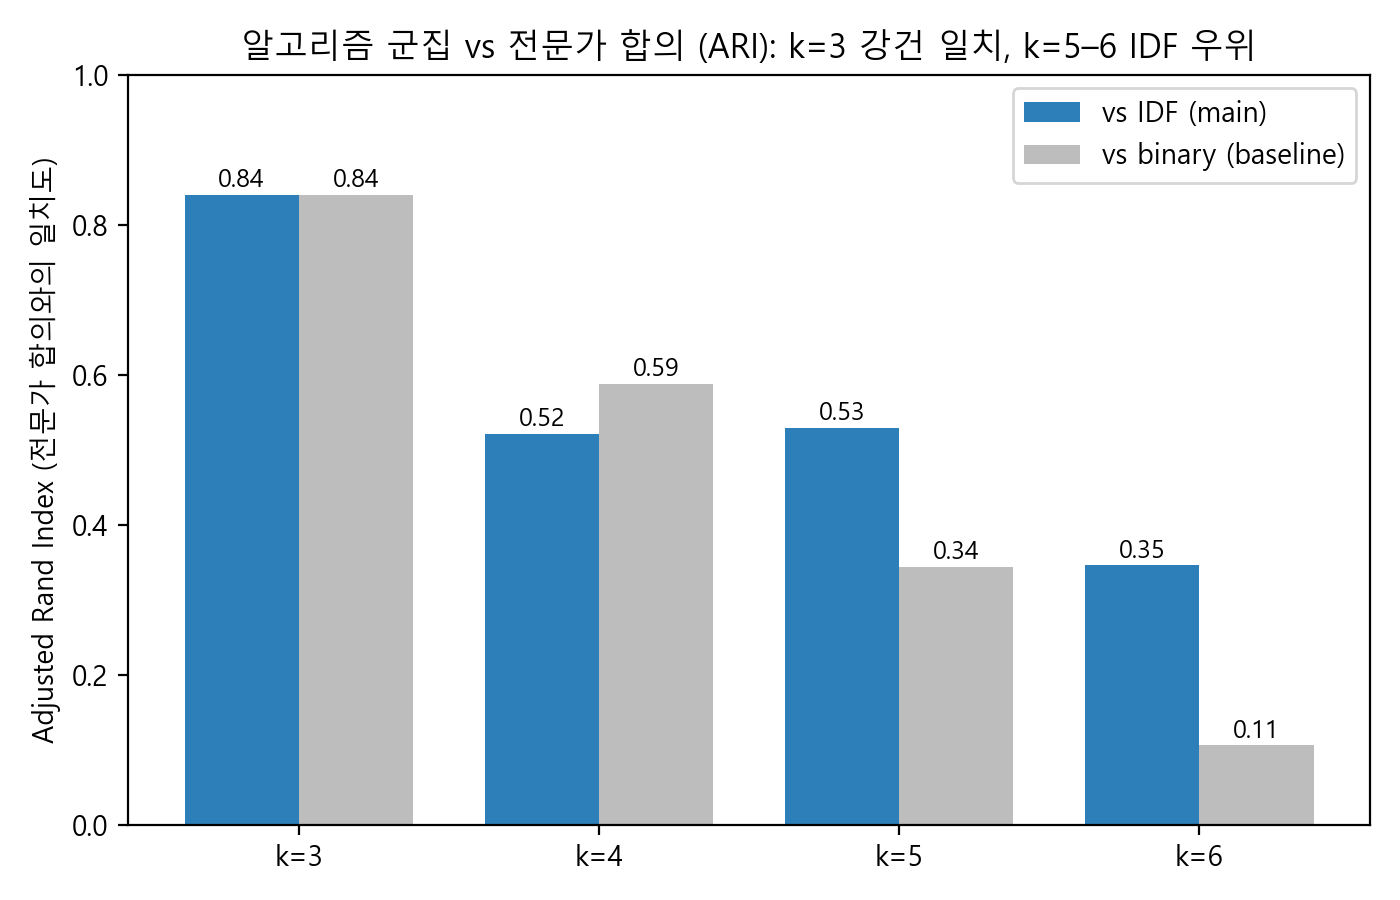
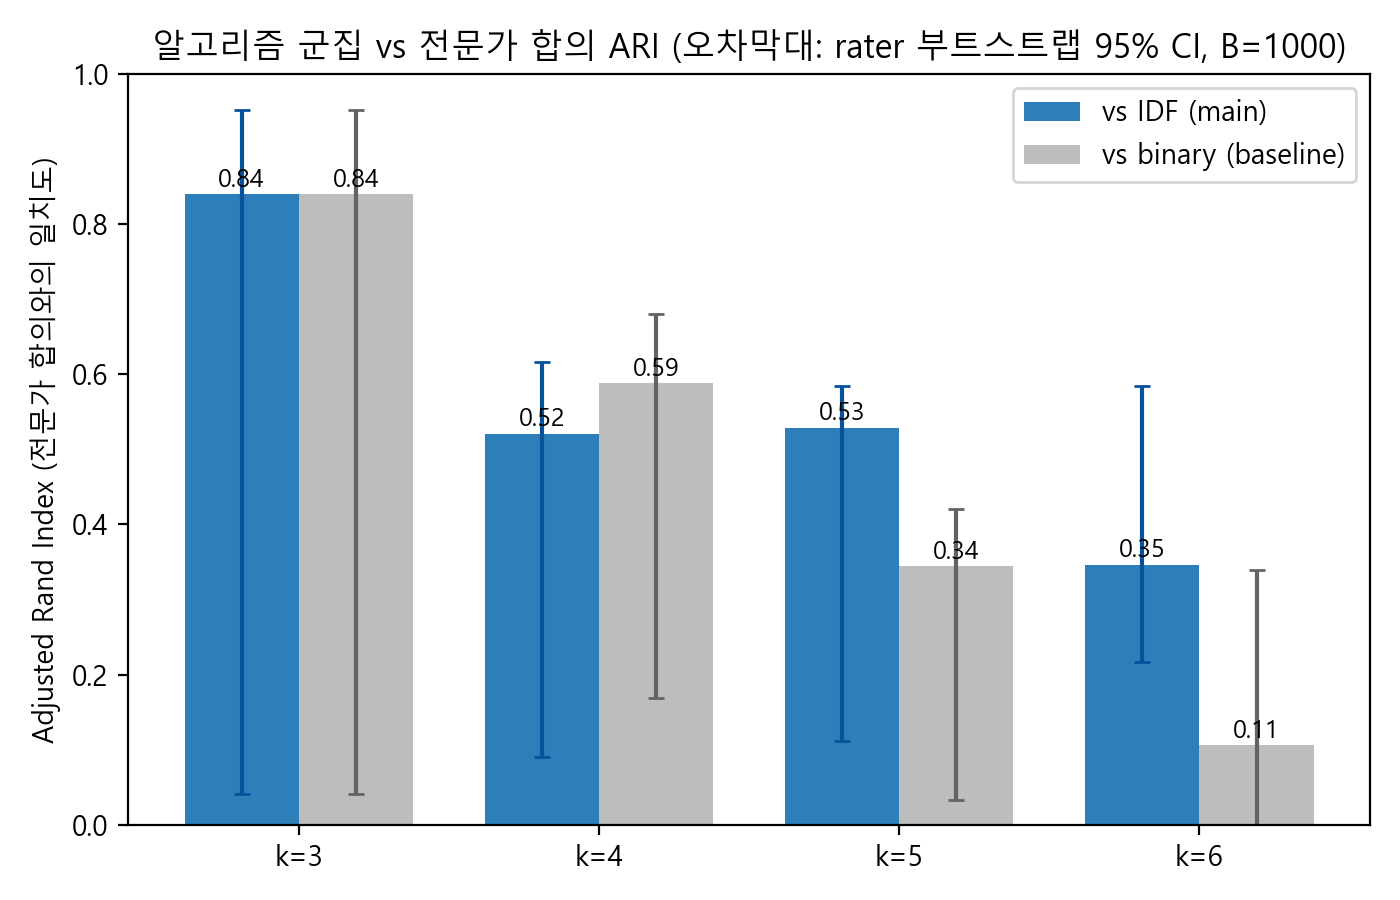
Add bootstrap stability (feature + rater) with CIs; honest report reconciliation

diff --git a/src/build_card_sorting_analysis.py b/src/build_card_sorting_analysis.py
@@ -23,6 +23,12 @@ from __future__ import annotations
 
 import itertools
 import pathlib
+import sys
+
+try:                                  # keep Korean/em-dash prints from crashing on cp949 pipes
+    sys.stdout.reconfigure(encoding="utf-8")
+except (AttributeError, ValueError):
+    pass
 
 import matplotlib
 import matplotlib.pyplot as plt
@@ -47,6 +53,8 @@ RATER_FIRST_COL, RATER_LAST_COL = 3, 16   # 평가 columns C..P (14 raters)
 DEPT_FIRST_ROW, DEPT_LAST_ROW = 6, 30     # 25 departments
 NAME_COL = 2
 K_PRIMARY = 4
+BOOTSTRAP_B = 1000                 # rater resamples for consensus stability + ARI CI
+BOOTSTRAP_SEED = 42
 
 
 def setup_style() -> None:
@@ -152,6 +160,73 @@ def disagreement_pairs(co: np.ndarray, names) -> pd.DataFrame:
     return pairs
 
 
+def bootstrap_expert(responses: pd.DataFrame, names, ref_k4: np.ndarray,
+                     ks=(3, 4, 5, 6)) -> tuple[pd.DataFrame, pd.DataFrame]:
+    """Resample the 14 raters with replacement (B times) to put bootstrap CIs on
+    (1) per-consensus-cluster stability at k=4 (Hennig clusterboot Jaccard) and
+    (2) the consensus-vs-algorithm ARI at each k.
+
+    The 14-rater panel itself is the population being resampled, so the lone
+    over-splitter (16 groups) is included/excluded naturally and its effect shows
+    up in the CI width rather than being removed by hand.
+    """
+    m = responses.to_numpy()
+    n_raters = responses.shape[1]
+    algo = {k: algorithm_clusters(k) for k in ks}            # fixed; rater-independent
+    ref_sets = {lab: set(np.where(ref_k4 == lab)[0]) for lab in sorted(set(ref_k4))}
+
+    rng = np.random.default_rng(BOOTSTRAP_SEED)
+    jac = {lab: [] for lab in ref_sets}
+    ari = {k: {"idf": [], "binary": []} for k in ks}
+    for _ in range(BOOTSTRAP_B):
+        idx = rng.integers(0, n_raters, size=n_raters)
+        boot = pd.DataFrame(m[:, idx])
+        co_b = co_occurrence(boot)
+        z_b = consensus_linkage(co_b)
+        for k in ks:
+            cons_k = fcluster(z_b, t=k, criterion="maxclust")
+            idf_k, bin_k = algo[k]
+            ari[k]["idf"].append(adjusted_rand_score(cons_k, [idf_k[nm] for nm in names]))
+            ari[k]["binary"].append(adjusted_rand_score(cons_k, [bin_k[nm] for nm in names]))
+            if k == K_PRIMARY:
+                boot_sets = [set(np.where(cons_k == lab)[0]) for lab in set(cons_k)]
+                for lab, rs in ref_sets.items():
+                    jac[lab].append(max(len(rs & bs) / len(rs | bs) for bs in boot_sets))
+
+    stab_rows = []
+    for lab, rs in ref_sets.items():
+        vals = np.array(jac[lab])
+        lo, hi = np.percentile(vals, [2.5, 97.5])
+        members = sorted(rs)
+        stab_rows.append(
+            {
+                "consensus_cluster": int(lab),
+                "n": len(members),
+                "departments": "; ".join(np.array(names)[members]),
+                "jaccard_mean": round(float(vals.mean()), 3),
+                "ci_low": round(float(lo), 3),
+                "ci_high": round(float(hi), 3),
+            }
+        )
+    stability = pd.DataFrame(stab_rows).sort_values("consensus_cluster")
+    stability.to_csv(REPORT_TABLES / "cardsort_consensus_stability.csv", index=False, encoding="utf-8-sig")
+
+    ci_rows = []
+    for k in ks:
+        ilo, ihi = np.percentile(ari[k]["idf"], [2.5, 97.5])
+        blo, bhi = np.percentile(ari[k]["binary"], [2.5, 97.5])
+        ci_rows.append(
+            {
+                "k": k,
+                "ari_idf_low": round(float(ilo), 3), "ari_idf_high": round(float(ihi), 3),
+                "ari_binary_low": round(float(blo), 3), "ari_binary_high": round(float(bhi), 3),
+            }
+        )
+    ari_ci = pd.DataFrame(ci_rows)
+    ari_ci.to_csv(REPORT_TABLES / "cardsort_agreement_ci.csv", index=False, encoding="utf-8-sig")
+    return stability, ari_ci
+
+
 # --------------------------------------------------------------------------- figures
 def fig_heatmap(co: np.ndarray, names, order, clusters) -> None:
     ordered = co[np.ix_(order, order)]
@@ -183,20 +258,29 @@ def fig_dendrogram(z: np.ndarray, names) -> None:
     plt.close()
 
 
-def fig_agreement(agreement: pd.DataFrame) -> None:
+def fig_agreement(agreement: pd.DataFrame, ari_ci: pd.DataFrame | None = None) -> None:
     ks = agreement["k"].tolist()
     x = np.arange(len(ks))
     w = 0.38
+    yerr_idf = yerr_bin = None
+    if ari_ci is not None:
+        c = ari_ci.set_index("k").loc[ks]
+        yerr_idf = np.vstack([agreement["ari_vs_idf"].to_numpy() - c["ari_idf_low"].to_numpy(),
+                              c["ari_idf_high"].to_numpy() - agreement["ari_vs_idf"].to_numpy()])
+        yerr_bin = np.vstack([agreement["ari_vs_binary"].to_numpy() - c["ari_binary_low"].to_numpy(),
+                              c["ari_binary_high"].to_numpy() - agreement["ari_vs_binary"].to_numpy()])
     plt.figure(figsize=(7, 4.5))
-    plt.bar(x - w / 2, agreement["ari_vs_idf"], w, label="vs IDF (main)", color="#2c7fb8")
-    plt.bar(x + w / 2, agreement["ari_vs_binary"], w, label="vs binary (baseline)", color="#bdbdbd")
+    plt.bar(x - w / 2, agreement["ari_vs_idf"], w, label="vs IDF (main)", color="#2c7fb8",
+            yerr=yerr_idf, capsize=3, ecolor="#08519c")
+    plt.bar(x + w / 2, agreement["ari_vs_binary"], w, label="vs binary (baseline)", color="#bdbdbd",
+            yerr=yerr_bin, capsize=3, ecolor="#636363")
     for xi, (vi, vb) in enumerate(zip(agreement["ari_vs_idf"], agreement["ari_vs_binary"])):
         plt.text(xi - w / 2, vi + 0.01, f"{vi:.2f}", ha="center", fontsize=9)
         plt.text(xi + w / 2, vb + 0.01, f"{vb:.2f}", ha="center", fontsize=9)
     plt.xticks(x, [f"k={k}" for k in ks])
     plt.ylabel("Adjusted Rand Index (전문가 합의와의 일치도)")
     plt.ylim(0, 1)
-    plt.title("알고리즘 군집 vs 전문가 합의 (ARI): k=3 강건 일치, k=5–6 IDF 우위")
+    plt.title("알고리즘 군집 vs 전문가 합의 ARI (오차막대: rater 부트스트랩 95% CI, B=1000)")
     plt.legend()
     plt.tight_layout()
     plt.savefig(REPORT_FIGURES / "cardsort_agreement_bars.png", dpi=200)
@@ -279,9 +363,10 @@ def main() -> None:
     agreement = pd.DataFrame(agreement_rows)
 
     idf_k4, bin_k4 = algorithm_clusters(K_PRIMARY)
+    stability, ari_ci = bootstrap_expert(responses, names, clusters_k4)
     fig_heatmap(co, names, order, cluster_map)
     fig_dendrogram(z, names)
-    fig_agreement(agreement)
+    fig_agreement(agreement, ari_ci)
     r = fig_scatter(co, names)
     write_tables(co, names, clusters_k4, idf_k4, bin_k4, agreement)
     disagree = disagreement_pairs(co, names)
@@ -293,6 +378,14 @@ def main() -> None:
     print("\nconsensus k=4 clusters:")
     for c in sorted(set(clusters_k4)):
         print(f"  CC{c}: " + ", ".join(np.array(names)[clusters_k4 == c]))
+    print(f"\nconsensus stability (rater bootstrap, B={BOOTSTRAP_B}, Jaccard mean [95% CI]):")
+    for _, row in stability.iterrows():
+        print(f"  CC{row['consensus_cluster']} (n={row['n']}): {row['jaccard_mean']} "
+              f"[{row['ci_low']}, {row['ci_high']}]  {row['departments']}")
+    print("\nagreement ARI 95% CI (rater bootstrap):")
+    for _, row in ari_ci.iterrows():
+        print(f"  k={int(row['k'])}: IDF [{row['ari_idf_low']}, {row['ari_idf_high']}]  "
+              f"binary [{row['ari_binary_low']}, {row['ari_binary_high']}]")
     print("\nType 1 (내부 O, 외부 X) — 준비기반 공유, 전문가 분리:")
     for _, row in disagree.head(4).iterrows():
         print(f"  {row['A']}-{row['B']}: idf={row['idf_cosine']}, coclass={row['co_classification']}")

diff --git a/src/build_idf_weighted_analysis.py b/src/build_idf_weighted_analysis.py
@@ -65,6 +65,8 @@ ALPHA_SWEEP = [round(a, 2) for a in np.linspace(0.0, 2.0, 9)]
 PRIMARY_ALPHA = 1.0                 # standard IDF, no hand tuning
 CORE_SUBCLUSTERS_K = 3              # sub-clusters within the largest primary cluster
 SUB_LINKAGE = "complete"           # sharper splits for the dense STEM-health core
+BOOTSTRAP_B = 1000                 # bootstrap resamples for cluster stability
+BOOTSTRAP_SEED = 42
 
 
 def setup_plot_style() -> None:
@@ -220,6 +222,71 @@ def robustness(matrix: pd.DataFrame, name_col: str, x: np.ndarray, idf: np.ndarr
     return table
 
 
+def _local_idf_subclusters(xc: np.ndarray, k: int) -> np.ndarray:
+    """Sub-cluster a core feature matrix with locally recomputed IDF.
+
+    `xc` is (n_core x n_features); columns are resampled features (so the same
+    course may appear more than once under a bootstrap). All-zero columns are
+    dropped before local IDF, mirroring subcluster_core.
+    """
+    present = xc.sum(axis=0) > 0
+    xcp = xc[:, present]
+    local_idf = np.log(xcp.shape[0] / xcp.sum(axis=0))
+    z = linkage(pdist(xcp * local_idf, metric="cosine"), method=SUB_LINKAGE)
+    return fcluster(z, t=k, criterion="maxclust")
+
+
+def subcluster_stability(matrix: pd.DataFrame, name_col: str, course_columns: list[str],
+                         labels: np.ndarray) -> pd.DataFrame:
+    """Feature-bootstrap stability of the core sub-clusters (Hennig clusterboot).
+
+    The 89-dim course feature space (restricted to courses present in the core)
+    is resampled with replacement B times. For each resample the core is
+    re-sub-clustered with locally recomputed IDF, and every reference sub-cluster
+    is matched to its best Jaccard overlap with the bootstrap partition. The mean
+    over B resamples is the stability point estimate; the 2.5/97.5 percentiles
+    give a 95% bootstrap CI. This replaces the earlier hand-entered 0.97/0.55/0.52.
+    """
+    core_id = pd.Series(labels).value_counts().idxmax()
+    mask = labels == core_id
+    core_names = matrix[name_col].to_numpy()[mask]
+    xc_full = matrix[course_columns].to_numpy(dtype=float)[mask]
+    present = xc_full.sum(axis=0) > 0
+    xc = xc_full[:, present]                      # core feature universe to resample
+    n_feat = xc.shape[1]
+
+    ref = _local_idf_subclusters(xc, CORE_SUBCLUSTERS_K)
+    ref_sets = {lab: set(np.where(ref == lab)[0]) for lab in sorted(set(ref))}
+
+    rng = np.random.default_rng(BOOTSTRAP_SEED)
+    samples = {lab: [] for lab in ref_sets}
+    for _ in range(BOOTSTRAP_B):
+        cols = rng.integers(0, n_feat, size=n_feat)
+        boot = _local_idf_subclusters(xc[:, cols], CORE_SUBCLUSTERS_K)
+        boot_sets = [set(np.where(boot == lab)[0]) for lab in set(boot)]
+        for lab, rs in ref_sets.items():
+            samples[lab].append(max(len(rs & bs) / len(rs | bs) for bs in boot_sets))
+
+    rows = []
+    for lab, rs in ref_sets.items():
+        vals = np.array(samples[lab])
+        lo, hi = np.percentile(vals, [2.5, 97.5])
+        members = sorted(rs)
+        rows.append(
+            {
+                "subcluster_id": int(lab),
+                "n": len(members),
+                "departments": "; ".join(core_names[members]),
+                "jaccard_mean": round(float(vals.mean()), 3),
+                "ci_low": round(float(lo), 3),
+                "ci_high": round(float(hi), 3),
+            }
+        )
+    table = pd.DataFrame(rows).sort_values("subcluster_id")
+    table.to_csv(REPORT_TABLES / "core_subcluster_stability.csv", index=False, encoding="utf-8-sig")
+    return table
+
+
 def subcluster_core(matrix: pd.DataFrame, name_col: str, course_columns: list[str],
                     labels: np.ndarray) -> pd.DataFrame:
     """Sub-cluster the largest primary cluster (the dense STEM-health core).
@@ -332,6 +399,7 @@ def main() -> None:
     sens = sensitivity(x, idf)
     robust = robustness(matrix, name_col, x, idf, labels)
     subclusters = subcluster_core(matrix, name_col, course_columns, labels)
+    sub_stability = subcluster_stability(matrix, name_col, course_columns, labels)
     km_compare = kmeans_comparison(x, idf)
 
     print(f"input={INPUT_MATRIX.name}  departments={len(matrix)}  features={len(course_columns)}")
@@ -349,6 +417,10 @@ def main() -> None:
     print(f"\ncore sub-clusters (largest primary cluster, local IDF, {SUB_LINKAGE}, k={CORE_SUBCLUSTERS_K}):")
     for _, r in subclusters.iterrows():
         print(f"  S{r['subcluster_id']} (n={r['n']}): {r['departments']}")
+    print(f"\ncore sub-cluster stability (feature bootstrap, B={BOOTSTRAP_B}, Jaccard mean [95% CI]):")
+    for _, r in sub_stability.iterrows():
+        print(f"  S{r['subcluster_id']} (n={r['n']}): {r['jaccard_mean']} "
+              f"[{r['ci_low']}, {r['ci_high']}]  {r['departments']}")
     print("\nhierarchical vs k-means agreement (IDF vectors):")
     for _, r in km_compare.iterrows():
         print(f"  k={int(r['k'])}: ARI={r['ari_hier_vs_kmeans']}, NMI={r['nmi_hier_vs_kmeans']}")